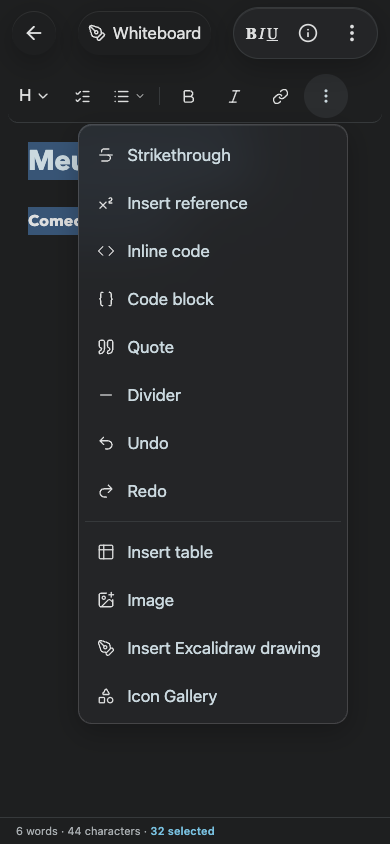
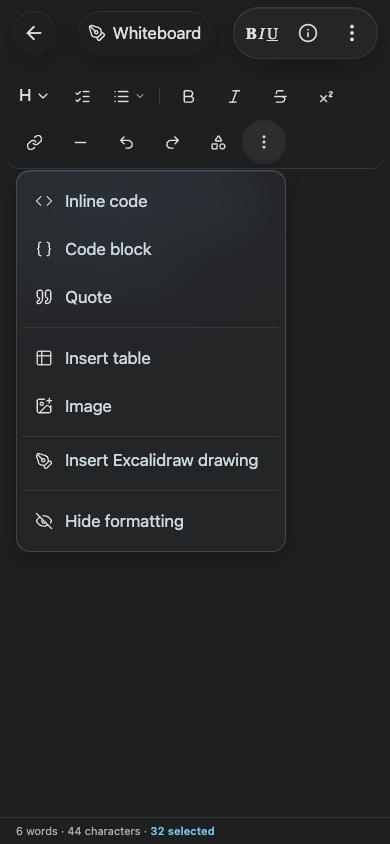
feat: keep frequently used formatting actions visible

diff --git a/src/components/Markdown/EditingToolbar.tsx b/src/components/Markdown/EditingToolbar.tsx
@@ -8,7 +8,7 @@ import styles from './MarkdownWorkbench.module.css';
 /** Frequent writing actions share one quiet row; less frequent actions retain labeled menus. */
 export function EditingToolbar({disabled,onCommand,onLink,onImage,onExcalidraw,onIcon,onEditBlock,onHide,blockEditing=false}:{onHide?:()=>void;onIcon?:()=>void;onExcalidraw?:()=>void;onEditBlock?:()=>void;blockEditing?:boolean;disabled:boolean;onCommand:(command:MarkdownCommand)=>void;onLink:()=>void;onImage:()=>void}) {
  const lists=[{command:'bullet',label:t('Lista'),Icon:List},{command:'ordered',label:t('Lista numerada'),Icon:ListOrdered},{command:'indent',label:t('Aumentar recuo'),Icon:IndentIncrease},{command:'outdent',label:t('Diminuir recuo'),Icon:IndentDecrease}] as const;
- const more=[{command:'strike',label:t('Tachado'),Icon:Strikethrough},{command:'footnote',label:t('Inserir referência'),Icon:Superscript},{command:'code',label:t('Código inline'),Icon:Code},{command:'codeblock',label:t('Bloco de código'),Icon:Braces},{command:'quote',label:t('Citação'),Icon:Quote},{command:'rule',label:t('Separador'),Icon:Minus},{command:'undo',label:t('Desfazer'),Icon:Undo2},{command:'redo',label:t('Refazer'),Icon:Redo2}] as const;
+ const more=[{command:'code',label:t('Código inline'),Icon:Code},{command:'codeblock',label:t('Bloco de código'),Icon:Braces},{command:'quote',label:t('Citação'),Icon:Quote}] as const;
  const item=({command,label,Icon}:(typeof lists)[number]|(typeof more)[number])=><button key={command} data-menu-item role="menuitem" type="button" disabled={disabled} onClick={()=>onCommand(command)}><Icon size={17}/><span>{label}</span></button>;
  const action=(label:string,Icon:typeof Bold,run:()=>void,secondary=false)=><button className={secondary?styles.secondaryFormatAction:undefined} type="button" disabled={disabled} aria-label={label} title={label} onMouseDown={event=>event.preventDefault()} onClick={run}><Icon size={17}/></button>;
  return <div className={`${styles.editingToolbar} ${styles.cleanFormatting}`} data-ui="toolbar" role="toolbar" aria-label={t('Ferramentas de edição')}>
@@ -16,15 +16,15 @@ export function EditingToolbar({disabled,onCommand,onLink,onImage,onExcalidraw,o
   {action(t('Tarefas'),ListChecks,()=>onCommand('task'))}
   <FormattingMenu label={t('Listas')} icon={<><List size={17}/><ChevronDown size={12}/></>} disabled={disabled}>{lists.map(item)}</FormattingMenu>
   <span className={styles.formatSeparator} aria-hidden="true"/>
-  {action(t('Negrito'),Bold,()=>onCommand('bold'))}{action(t('Itálico'),Italic,()=>onCommand('italic'))}
+  {action(t('Negrito'),Bold,()=>onCommand('bold'))}{action(t('Itálico'),Italic,()=>onCommand('italic'))}{action(t('Tachado'),Strikethrough,()=>onCommand('strike'))}{action(t('Inserir referência'),Superscript,()=>onCommand('footnote'))}
   {action(t('Inserir link'),Link,onLink)}{action(t('Inserir tabela'),Table2,()=>onCommand('table'),true)}{action(t('Imagem'),ImagePlus,onImage,true)}
+  {action(t('Separador'),Minus,()=>onCommand('rule'))}{action(t('Desfazer'),Undo2,()=>onCommand('undo'))}{action(t('Refazer'),Redo2,()=>onCommand('redo'))}{onIcon&&action(t('Galeria de ícones'),Shapes,onIcon)}
   <FormattingMenu label={t('Mais opções de formatação')} icon={<MoreVertical size={18}/>} disabled={disabled}>
    {more.map(item)}
    <div className={styles.formatMenuSection}>
     <button data-menu-item role="menuitem" type="button" disabled={disabled} onClick={()=>onCommand('table')}><Table2 size={17}/>{t('Inserir tabela')}</button>
     <button data-menu-item role="menuitem" type="button" disabled={disabled} onClick={onImage}><ImagePlus size={17}/>{t('Imagem')}</button>
     {onExcalidraw&&<button data-menu-item role="menuitem" type="button" onClick={onExcalidraw}><PenTool size={17}/>{t('Inserir desenho Excalidraw')}</button>}
-    {onIcon&&<button data-menu-item role="menuitem" type="button" onClick={onIcon}><Shapes size={17}/>{t('Galeria de ícones')}</button>}
     {onEditBlock&&<button data-menu-item role="menuitem" type="button" onClick={onEditBlock}>{blockEditing?<Check size={17}/>:<SquareCode size={17}/>} {blockEditing?t('Concluir edição do bloco'):t('Editar bloco como Markdown')}</button>}
    </div>
    {onHide&&<div className={styles.formatMenuSection}><button data-menu-item role="menuitem" type="button" onClick={onHide}><EyeOff size={17}/>{t('Ocultar formatação')}</button></div>}

diff --git a/src/components/Markdown/MarkdownWorkbench.module.css b/src/components/Markdown/MarkdownWorkbench.module.css
@@ -436,3 +436,9 @@
  .cleanFormatting .secondaryFormatAction { display: none; }
  .compact.workbench[data-formatting-open="true"] > .cleanFormatting { flex-wrap: nowrap; padding: 4px; margin-inline: 8px; min-width: 0; overflow-x: auto; }
 }
+
+/* Keep the requested frequent actions directly available, wrapping on narrow viewports. */
+.compact.workbench > .cleanFormatting { flex-wrap: wrap; max-height: 180px; }
+@media (max-width: 480px) {
+ .compact.workbench[data-formatting-open="true"] > .cleanFormatting { flex-wrap: wrap; overflow-x: hidden; }
+}

diff --git a/docs/evidence/document-context-menu/README.md b/docs/evidence/document-context-menu/README.md
@@ -20,3 +20,7 @@ Every application-owned X dismissal button uses the shared `data-ui="dismiss"` h
 
 ![Formatting menu](formatting-more-desktop.png)
 ![Mobile formatting menu](formatting-more-mobile.png)
+
+## Frequently used actions — 2026-10-23
+
+Divider, Undo, Redo, Icon Gallery, Strikethrough and Insert reference are direct toolbar actions. Their duplicates were removed from More. Narrow screens wrap the direct controls rather than hiding these requested actions; the 390px smoke verifies all six are visible and the strip stays within two rows.
